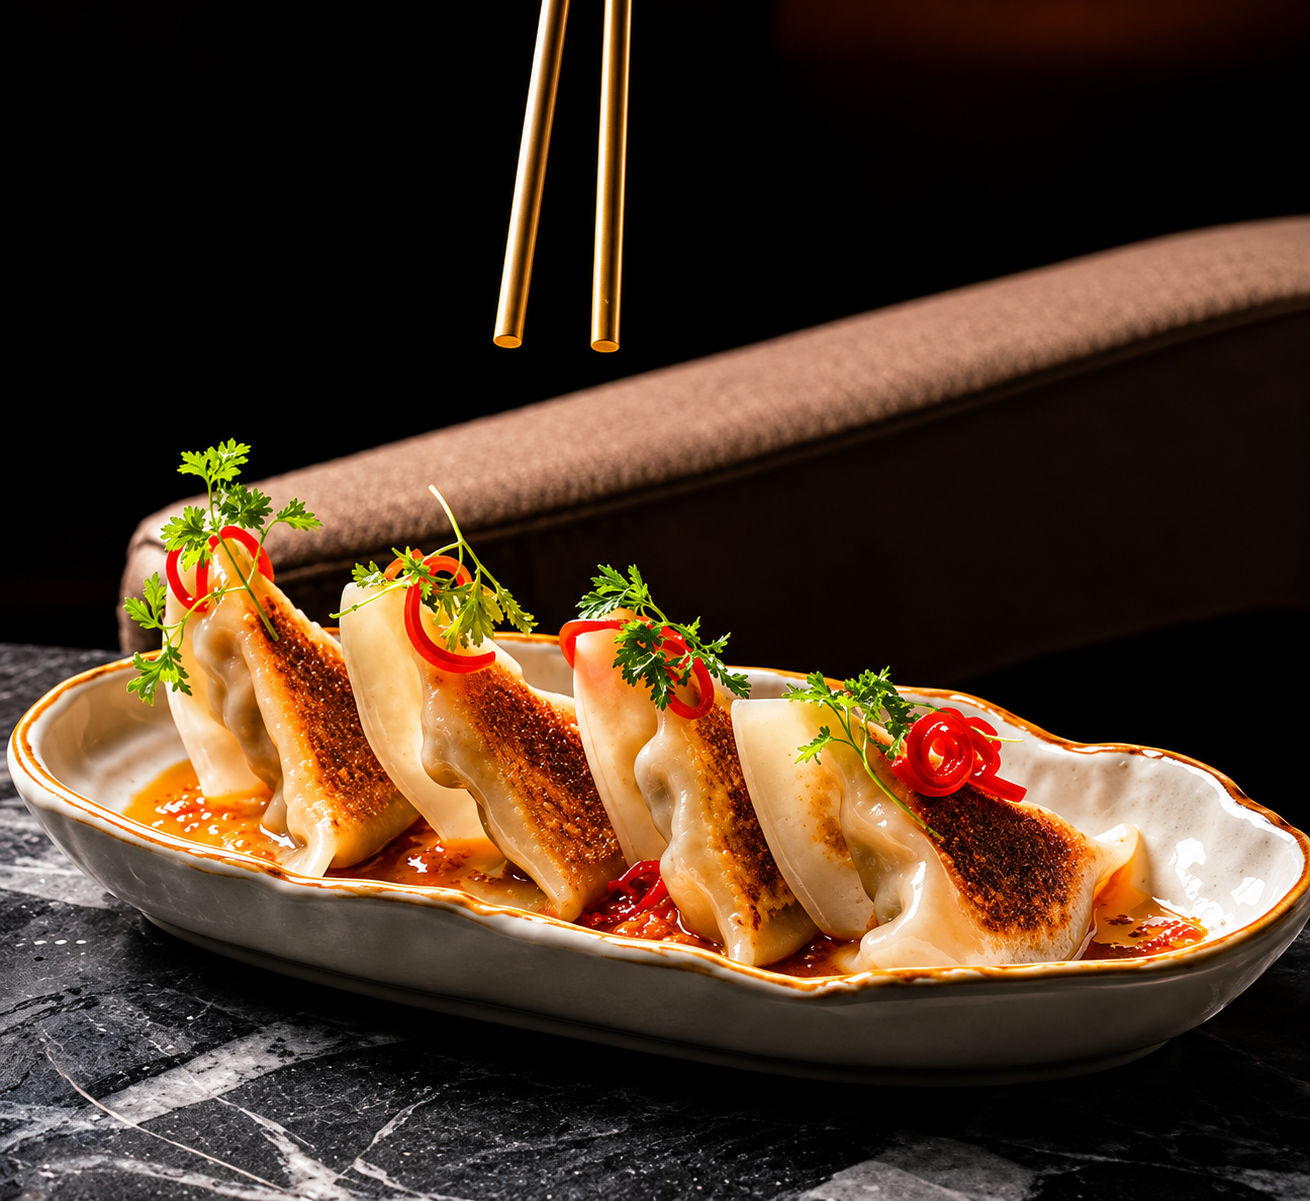
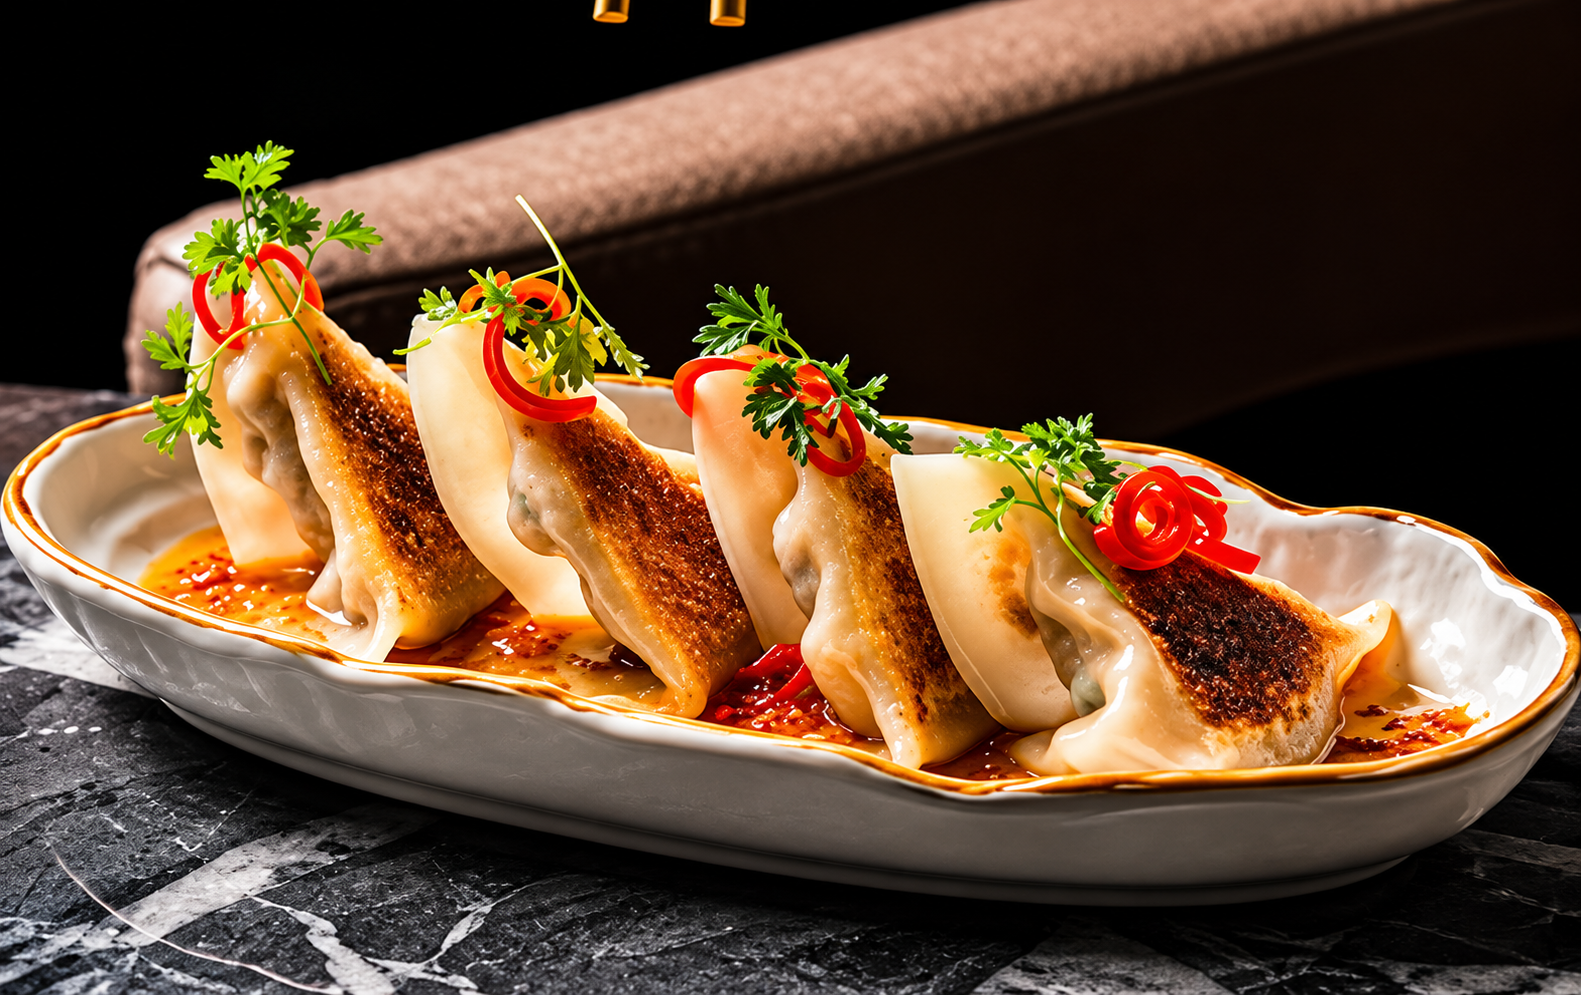
style(popular): set tablet image in bg image

diff --git a/as1/css/index.css b/as1/css/index.css
@@ -150,11 +150,34 @@
         padding: 60px 0 60px;
     }
 
+    /*image settings*/
+    .Dessert .food-img,
+    .C-Specials .food-img,
+    .Seasonal .food-img {
+        width: 100%;
+        height: auto;
+        background-size: cover;
+        background-position: center;
+    }
+
+    .C-Specials .food-img {
+        background-image: url("../images/Chef-Specials-T.png");
+    }
+
+    .Dessert .food-img {
+        background-image: url("../images/Dessert-T.png");
+    }
+
+    .Seasonal .food-img {
+        background-image: url("../images/Seasonal-T.png");
+    }
+
     .food-list {
-        flex-direction: column;
-        align-items: stretch;
-        gap: 40px;
-        padding: 0;
+        display: flex;
+        justify-content: center;
+        align-items: center;
+        gap: 80px;
+        padding: 60px;
     }
 
     .C-Specials {
@@ -174,14 +197,6 @@
     .Seasonal {
         width: 100%;
         gap: 0;
-    }
-
-    .Dessert img,
-    .C-Specials img,
-    .Seasonal img {
-        width: 100%;
-        height: auto;
-        object-fit: cover;
     }
 
     /* Chef Specials 的字体大小 */

diff --git a/as1/index.html b/as1/index.html
@@ -54,18 +54,21 @@
 
         <div class="food-list">
             <div class="Dessert">
+                <div class="food-img"></div>
                 <img src="images/dessert.jpg" alt="Dessert">
                 <h4>DESSERT</h4>
                 <a href="#" class="btn btn-outline">View More</a>
             </div>
 
             <div class="C-Specials">
+                <div class="food-img"></div>
                 <img src="images/Chef Specials.png" alt="Chef Specials">
                 <h3>Chef Specials</h3>
                 <a href="#" class="btn btn-outline">View More</a>
             </div>
 
             <div class="Seasonal">
+                <div class="food-img"></div>
                 <img src="images/Seasonal.jpg" alt="Seasonal">
                 <h4>Seasonal</h4>
                 <a href="#" class="btn btn-outline">View More</a>
